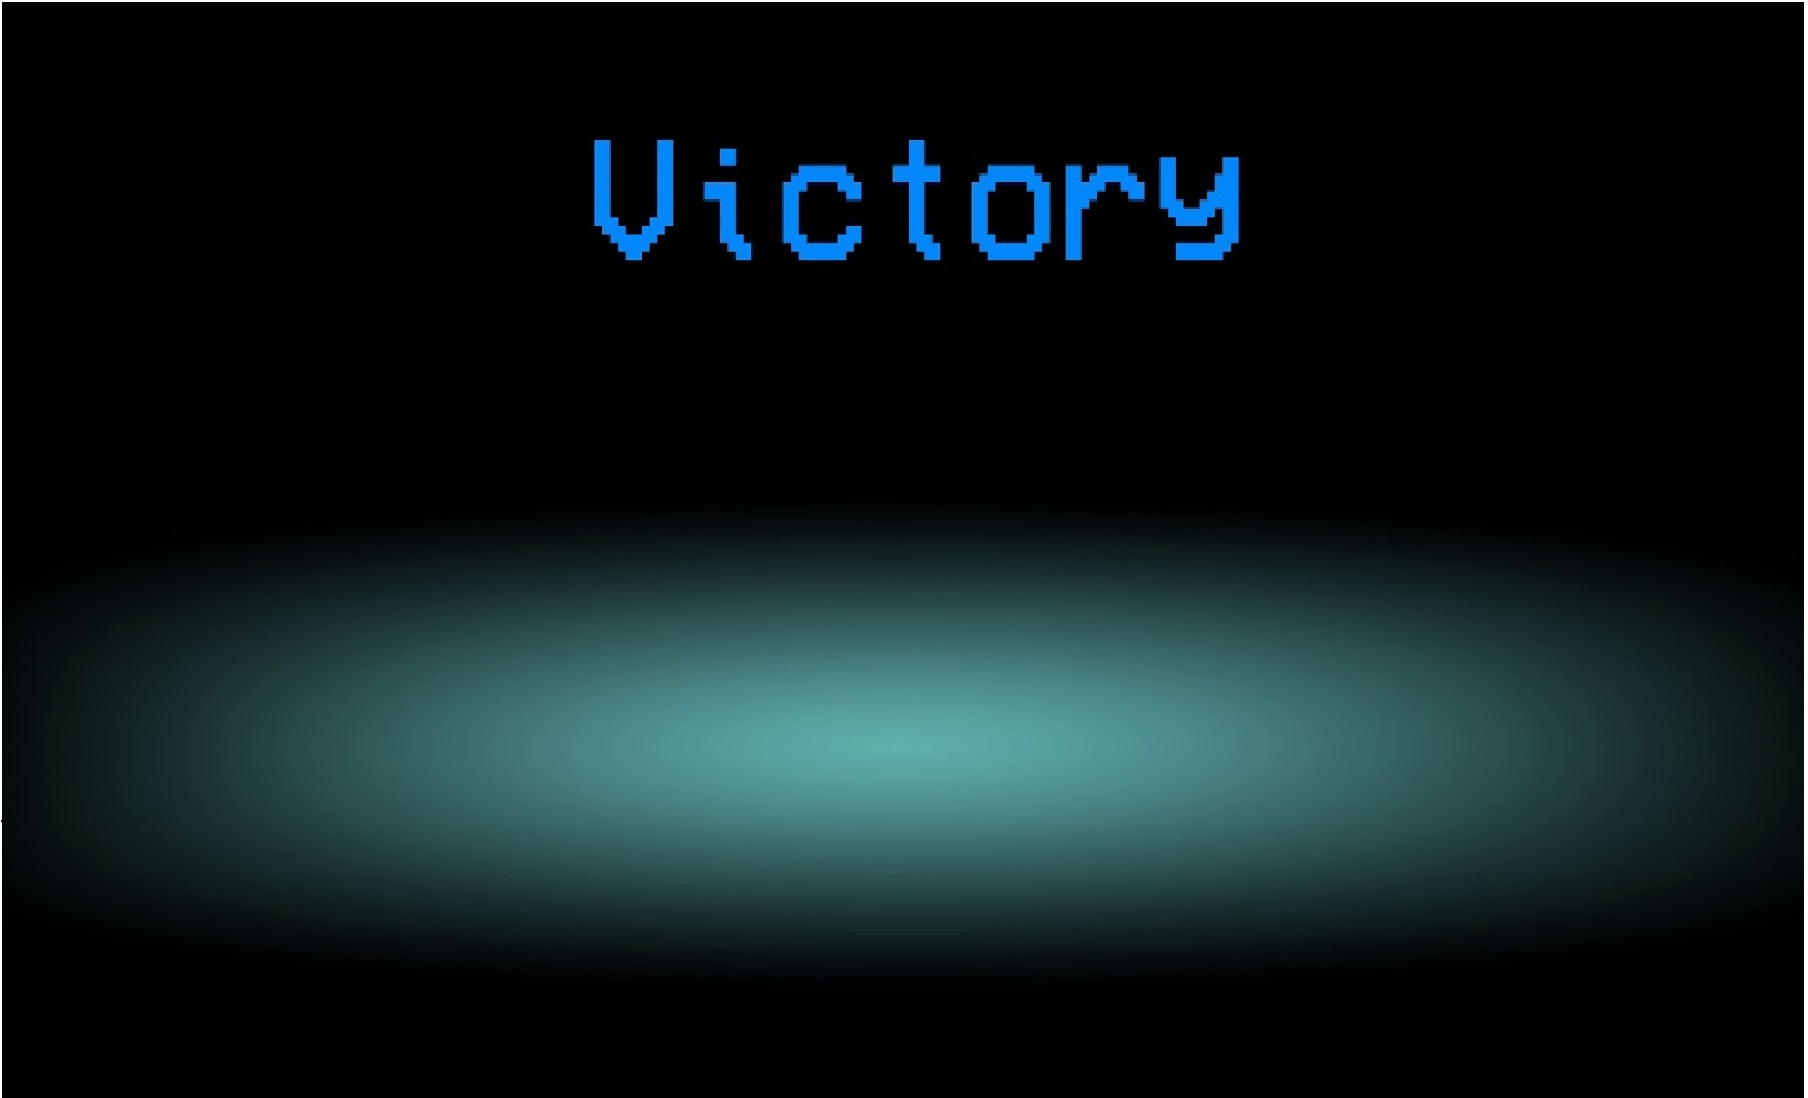
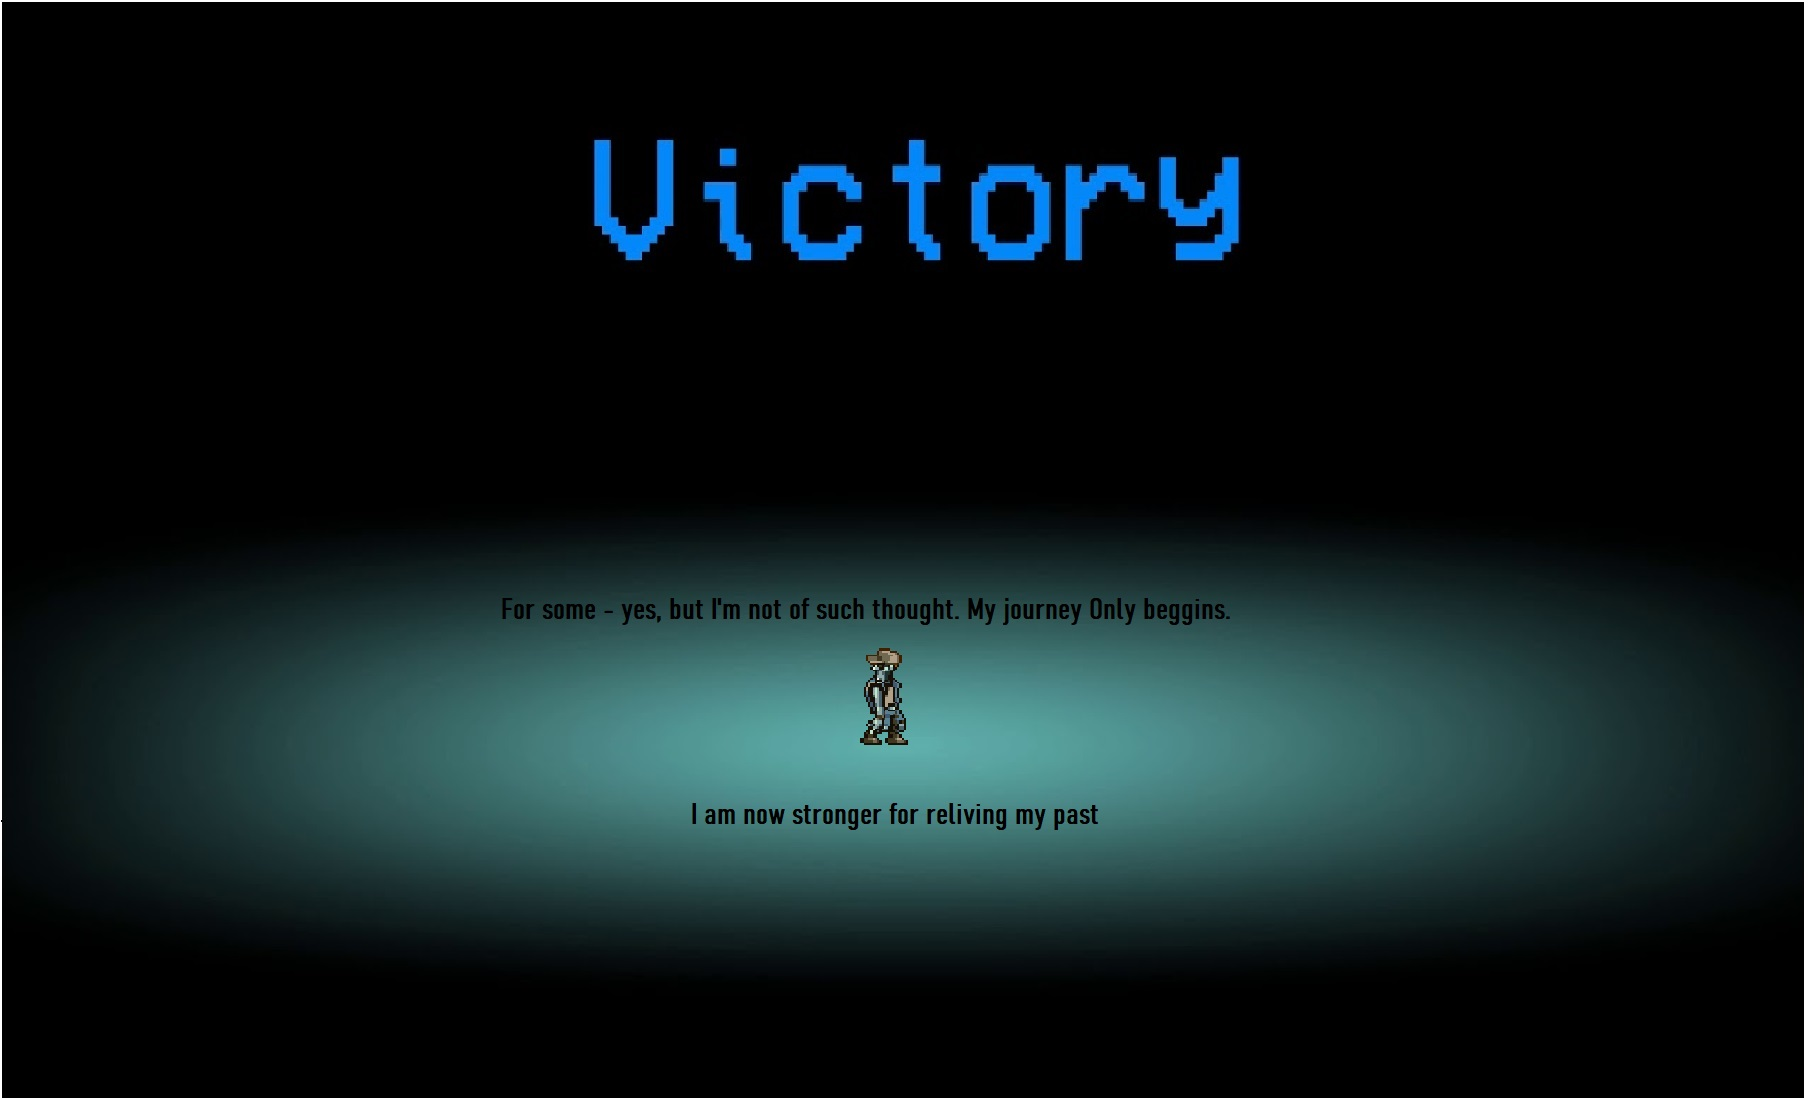
начало работы с кнопкой

Changed region(s): [[0.2788, 0.5264, 0.6814, 0.6812], [0.4027, 0.7122, 0.5885, 0.7741]]

diff --git a/settings/settings.py b/settings/settings.py
@@ -1,39 +1,40 @@
+import pygame
 
 level_map1 = [
-    'XXXXXXXXXXXXXXXXXXXXXXXXXXXXXXXXXXXXXXXXXXXXXXXXXXXXXXXXXXXXXXXXXXXXXXXXXXXXXXXXXXXXXXXXXXXXXXXXXXXXXXXXXXXXXXXXX',
-    'X                                                                                                               X',
-    'X                                                                                                               X',
-    'X                                                                                                               X',
-    'X                     X                                                                                         X',
-    'X                     X      X                                                                          X        ',
-    'X    P   D                  S                                                                                   X',
-    'X                     XXX                                                                                       X',
-    'X               XX                                                                                              X',
-    'X                                                                                                               X',
-    'X                                                                                                               X',
-    'X                                                                                                               X',
-    'X           X                                                                                         XXXXXXXXXXX',
-    'X           X                                                                                           X        ',
-    'X    P   D                  S                                                                                    ',
-    'XXXXXXXXXXXXXXXXXXXXXXXXXXXXXXXXXXXXXXXXXXXXXXXXXXXXXXXXXXXXXXXXXXXXXXXXXXXXXXXXXXXXXXXXXXXXXXXXXXXXXXXXXXXXXXXXX '
+    'X             XXXXX                         XXXXXXX                 XXX                   X',
+    'X              XXX                           XXXXX                  XXX                   X',
+    'X               X                             XXX                   XXXK                  X',
+    'X                                              X                     X                    X',
+    'X                                                                        X                X',
+    'X                                                                           X             X',
+    'X                                                                               X         X',
+    'X                                                                                     XXXXX',
+    'X                                                                                    X    X',
+    'X                                                                                     D    ',
+    'X                                                                                   XXXXXXX',
+    'X                                                                                  XXXXXXXX',
+    'X                 XXXXXXXXXXXXXXXXXXXXXXXXXXXXXXXXXXXXXXXXXXXXXXXXXXXX            XXXXXXXXX',
+    'X                XX                                                  XX          XXXXXXXXXX',
+    'X           P   XXXSSSSSSSSSSSSSSSSSSSSSSSSSSSSSSSSSSSSSSSSSSSSSSSSSSXXX        XXXXXXXXXXX',
+    'XXXXXXXXXXXXXXXXXXXXXXXXXXXXXXXXXXXXXXXXXXXXXXXXXXXXXXXXXXXXXXXXXXXXXXXXXXXXXXXXXXXXXXXXXXX'
 ]
 
 level_map2 = [
     'XXXXXXXXXXXXXXXXXXXXXXXXXXXXXXXXXXXXXXXXXXXXXXXXXXXXXXXXXXXXXXXXXXXXXXXXXXXXXXXXXXXXXXXXXXXXXXXXXXXXXXXXXXXXXXXXX',
     'X                                                                                                               X',
-    'X                   X                                                                                           X',
     'X                                                                                                               X',
     'X                                                                                                               X',
     'X                                                                                                               X',
-    'X                                                                                                          X    X',
-    'X                          XXX                                                                                  X',
-    'X                    XX                                                                                         X',
     'X                                                                                                               X',
     'X                                                                                                               X',
     'X                                                                                                               X',
-    'X                X                                                                                              X',
-    'X                X   KD                                                                                         X',
-    'X                 XPX                                                                                           X',
+    'X                                                                                                               X',
+    'X                                                                                                               X',
+    'X                                                                                                               X',
+    'X                   B                                                                                           X',
+    'X                                                                                                       XXXXXXXXX',
+    'X                                                                                                       X       X',
+    'X                  P L                                                                                          X',
     'XXXXXXXXXXXXXXXXXXXXXXXXXXXXXXXXXXXXXXXXXXXXXXXXXXXXXXXXXXXXXXXXXXXXXXXXXXXXXXXXXXXXXXXXXXXXXXXXXXXXXXXXXXXXXXXXX']
 
 level_map3 = [
@@ -54,8 +55,6 @@ level_map3 = [
     'X                X P  K  D X                                                                                    X',
     'XXXXXXXXXXXXXXXXXXXXXXXXXXXXXXXXXXXXXXXXXXXXXXXXXXXXXXXXXXXXXXXXXXXXXXXXXXXXXXXXXXXXXXXXXXXXXXXXXXXXXXXXXXXXXXXXXX'
 ]
-extra_map = [None for i in range(16)]
-
 
 tile_size = 64
 screen_width = 1800
@@ -67,3 +66,14 @@ door_locked = 1
 menu_choose = 0
 levels = {1: level_map1, 2: level_map2, 3: level_map3}
 screen_height = 16 * tile_size
+
+stories = {1: ["I have been talented and lucky.",
+               "Some people even said I could pass through a locked door without opening the lock.",
+               "But I never valued my gifts..."],
+           2: ["With time, my overconfidence started biting me in my tail.",
+               "Tasks didn't seem so easy and no one was as amazed as they used to be..."],
+           3: ["I grew desperate and began trying everything in order to save my position.",
+               "Even such basic words like 'trust' and 'dignity' became something foreign to me.",
+               "I was stepping over peoples heads.",
+               "The must have felt awful..."],
+           4: ""}

diff --git a/engine/level.py b/engine/level.py
@@ -8,6 +8,8 @@ from settings.settings import tile_size, screen_width
 from settings import settings
 from player import Player
 from drawable.menu import Menu
+from drawable.button import Button
+from drawable.lock import Lock
 
 
 class Level:
@@ -17,6 +19,8 @@ class Level:
         self.door = pygame.sprite.GroupSingle()
         self.spikes = pygame.sprite.Group()
         self.key = pygame.sprite.GroupSingle()
+        self.button = pygame.sprite.GroupSingle()
+        self.lock = pygame.sprite.Group()
         self.menu = Menu()
         self.display_surface = surface
         self.setup_level(level_data)
@@ -30,23 +34,31 @@ class Level:
         self.door.empty()
         self.spikes.empty()
         self.key.empty()
+        self.button.empty()
+        self.lock.empty()
         for row_index, row in enumerate(layout):
             for col_index, cell in enumerate(row):
                 x = col_index * tile_size
                 y = row_index * tile_size
 
                 if cell == 'X':
-                    tile = Tile((x, y), tile_size)
+                    tile = Tile((x, y))
                     self.tiles.add(tile)
                 if cell == 'S':
-                    spike = Spikes((x + 1, y + 27), tile_size)
+                    spike = Spikes((x + 1, y + 27))
                     self.spikes.add(spike)
                 if cell == 'D':
-                    door = Door((x + 2, y - 22), tile_size)
+                    door = Door((x + 2, y - 11))
                     self.door.add(door)
                 if cell == 'K':
-                    key = Key((x + 12, y + 15), tile_size)
+                    key = Key((x + 12, y + 15))
                     self.key.add(key)
+                if cell == 'B':
+                    button = Button((x, y))
+                    self.button.add(button)
+                if cell == 'L':
+                    lock = Lock((x, y))
+                    self.lock.add(lock)
                 if cell == 'P':
                     player_sprite = Player((x, y), self.display_surface)
                     self.player.add(player_sprite)
@@ -110,7 +122,11 @@ class Level:
                 self.key.update(self.world_shift)
                 self.spikes.update(self.world_shift)
                 self.player.update(self.tiles.sprites(), self.door.sprites(), self.spikes.sprites(), self.key)
+                self.button.update(self.world_shift)
+                self.lock.update(self.world_shift)
                 self.scroll_x()
+            self.lock.draw(self.display_surface)
+            self.button.draw(self.display_surface)
             self.spikes.draw(self.display_surface)
             self.tiles.draw(self.display_surface)
             self.door.draw(self.display_surface)

diff --git a/main.py b/main.py
@@ -1,4 +1,3 @@
-import pygame
 from settings.settings import *
 from settings import settings
 from engine.level import Level
@@ -16,6 +15,10 @@ backgrounds = {0: r'graphics/background/background0.png',
                3: r'graphics/background/background3.png',
                4: r'graphics/background/background4.png'}
 back_ground = pygame.image.load(backgrounds[settings.current_level])
+print(settings.current_level)
+font = pygame.font.Font(None, 50)
+colors = {1: (0, 0, 0), 2: (46, 9, 94), 3: (156, 85, 5)}
+y = 40
 
 while True:
     if settings.current_level != actual_level:
@@ -24,6 +27,10 @@ while True:
             level.setup_level(levels[settings.current_level])
         back_ground = pygame.image.load(backgrounds[settings.current_level])
     screen.blit(back_ground, (0, 0))
+    lines = settings.stories[settings.current_level]
+    for i in range(len(lines)):
+        text = font.render(lines[i], True, colors[settings.current_level])
+        screen.blit(text, [250, 250 + i * y])
     level.run()
     if settings.dead_state == 1:
         settings.door_locked = 1
@@ -31,6 +38,5 @@ while True:
         level.setup_level(levels[settings.current_level])
     if settings.game_started == 0:
         screen.blit(pygame.image.load(backgrounds[0]), (0, 0))
-
     pygame.display.update()
     clock.tick(60)

diff --git a/player.py b/player.py
@@ -23,7 +23,7 @@ class Player(pygame.sprite.Sprite):
         self.direction = pygame.math.Vector2(0, 0)
         self.speed = 6
         self.gravity = 1
-        self.jump_height = -25
+        self.jump_height = -22
         self.on_ground = False
 
     def import_character_assets(self):
@@ -142,9 +142,13 @@ class Player(pygame.sprite.Sprite):
             self.on_ground = False
 
     def spike_touched(self, spikes_sprites):
+        spike = None
         for sprite in spikes_sprites:
             if sprite.rect.colliderect(self.rect):
-                settings.dead_state = 1
+                if settings.current_level != 3:
+                    settings.dead_state = 1
+                else:
+                    pass  # spike_walking
 
     def key_acquired(self, key_sprites):
         key = None

diff --git a/drawable/button.py b/drawable/button.py
@@ -1,11 +1,12 @@
 import pygame
 
 
-class Key(pygame.sprite.Sprite):
+class Button(pygame.sprite.Sprite):
     def __init__(self, pos):
         super().__init__()
-        key_path = r'graphics/background/key.png'
-        self.image = pygame.image.load(key_path).convert_alpha()
+        self.frame_index = 0  # for animation
+        door_path = r'graphics/button/btnoff.png'
+        self.image = pygame.image.load(door_path).convert_alpha()
         self.image.set_colorkey((255, 255, 255))
         self.rect = self.image.get_rect(topleft=pos)
 

diff --git a/drawable/lock.py b/drawable/lock.py
@@ -1,11 +1,12 @@
 import pygame
 
 
-class Key(pygame.sprite.Sprite):
+class Lock(pygame.sprite.Sprite):
     def __init__(self, pos):
         super().__init__()
-        key_path = r'graphics/background/key.png'
-        self.image = pygame.image.load(key_path).convert_alpha()
+        self.frame_index = 0  # for animation
+        door_path = r'graphics/lock/lock.png'
+        self.image = pygame.image.load(door_path).convert_alpha()
         self.image.set_colorkey((255, 255, 255))
         self.rect = self.image.get_rect(topleft=pos)
 

diff --git a/drawable/tiles.py b/drawable/tiles.py
@@ -4,7 +4,7 @@ from settings import settings
 
 
 class Tile(pygame.sprite.Sprite):
-    def __init__(self, pos, size):
+    def __init__(self, pos):
         super().__init__()
         self.sprites = {
                         1: r'graphics/tiles/tile1.png', 2: r'graphics/tiles/tile2.png',

diff --git a/drawable/spikes.py b/drawable/spikes.py
@@ -2,7 +2,7 @@ import pygame
 
 
 class Spikes(pygame.sprite.Sprite):
-    def __init__(self, pos, size):
+    def __init__(self, pos):
         super().__init__()
         spikes_path = r'graphics/spikes/spikes1.png'
         self.image = pygame.image.load(spikes_path).convert_alpha()

diff --git a/drawable/door.py b/drawable/door.py
@@ -2,7 +2,7 @@ import pygame
 
 
 class Door(pygame.sprite.Sprite):
-    def __init__(self, pos, size):
+    def __init__(self, pos):
         super().__init__()
         self.frame_index = 0  # for animation
         door_path = r'graphics/door/door.png'
